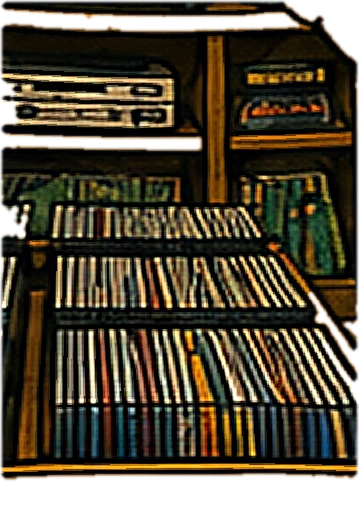
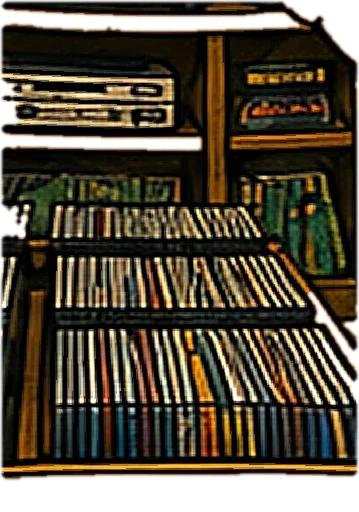
Finish ambient toys: visible wiggles + wonder confirm toast
Bake sprites for crate/poster/fire/wonder, wire toy planes on every ambient
hit, and show a short rabbit-hole toast before wonder opens outbound links.

diff --git a/app/components/AmbientHits.tsx b/app/components/AmbientHits.tsx
@@ -1,6 +1,6 @@
 'use client';
 
-import { BANDCAMP_URL, INSTAGRAM_URL } from '@/lib/brand';
+import { BANDCAMP_URL, BRAND_NAME, INSTAGRAM_URL } from '@/lib/brand';
 import { useEffect, useLayoutEffect, useRef, useState } from 'react';
 import { type ThreeEvent } from '@react-three/fiber';
 import { useTexture } from '@react-three/drei';
@@ -12,7 +12,7 @@ import { playSfx } from '@/lib/audio';
 import { useSceneEnv, type Controls } from './sceneContext';
 
 /** Visible click reaction — alpha-cut billboard of the painted object
- * (baked by scripts/build-v9-pano.py as /hotspots/toy_<id>.webp). */
+ * (baked by scripts/build-v12-pano.py as /hotspots/toy_<id>.webp). */
 type ToyPlane = {
   u: number;
   v: number;
@@ -31,29 +31,39 @@ type AmbientHit = {
   toy?: ToyPlane;
   /**
    * balmingtiger globe class — click opens a random wonder link
-   * instead of (or after) playing SFX.
+   * after a short confirm toast (not a silent eject).
    */
   wonder?: boolean;
 };
 
+type WonderLink = { href: string; label: string };
+
 /** Outbound “globe” destinations — Bandcamp / IG / maps rabbit holes. */
-const WONDER_LINKS = [
-  BANDCAMP_URL,
-  INSTAGRAM_URL,
-  'https://ltdrifta.bandcamp.com',
-  'https://inletknight.bandcamp.com',
-  'https://drifta.bandcamp.com',
-  'https://www.google.com/maps/@49.2827,-123.1207,3a,75y,90t/data=!3m1!1e3',
-  'https://www.google.com/maps/@45.5231,-122.6765,3a,75y,120t/data=!3m1!1e3',
+const WONDER_LINKS: WonderLink[] = [
+  { href: BANDCAMP_URL, label: `${BRAND_NAME} on Bandcamp` },
+  { href: INSTAGRAM_URL, label: `${BRAND_NAME} on Instagram` },
+  { href: 'https://ltdrifta.bandcamp.com', label: 'LT Drifta on Bandcamp' },
+  { href: 'https://inletknight.bandcamp.com', label: 'Inlet Knight on Bandcamp' },
+  { href: 'https://drifta.bandcamp.com', label: 'Drifta on Bandcamp' },
+  {
+    href: 'https://www.google.com/maps/@49.2827,-123.1207,3a,75y,90t/data=!3m1!1e3',
+    label: 'Street view — Vancouver',
+  },
+  {
+    href: 'https://www.google.com/maps/@45.5231,-122.6765,3a,75y,120t/data=!3m1!1e3',
+    label: 'Street view — Portland',
+  },
 ];
+
+export const WONDER_EVENT = 'stereo-mart-wonder';
 
 /**
  * Non-nav diegetic toys — balmingtiger cushion / owl / fire / globe class.
- * Invisible click meshes: unique SFX, plus one wonder object that opens
- * a random outbound link (globe parity).
+ * Invisible click meshes + visible sprite wiggles; wonder opens outbound
+ * after a confirm toast.
  */
 const HITS: AmbientHit[] = [
-  // Headphones on the back-wall LISTEN tower (v11)
+  // Headphones on the back-wall LISTEN tower
   {
     id: 'stool',
     u: 0.492,
@@ -64,9 +74,25 @@ const HITS: AmbientHit[] = [
     toy: { u: 0.5, v: 0.428, w: 12, h: 14 },
   },
   // Wall bin run on the CRT side
-  { id: 'crate', u: 0.655, v: 0.488, w: 4.5, h: 3.2, sfx: 'crate' },
+  {
+    id: 'crate',
+    u: 0.655,
+    v: 0.488,
+    w: 4.5,
+    h: 3.2,
+    sfx: 'crate',
+    toy: { u: 0.655, v: 0.488, w: 18, h: 14 },
+  },
   // Face-out record row on the CRT-side wall shelf
-  { id: 'poster', u: 0.656, v: 0.317, w: 3.5, h: 3.5, sfx: 'poster' },
+  {
+    id: 'poster',
+    u: 0.656,
+    v: 0.317,
+    w: 3.5,
+    h: 3.5,
+    sfx: 'poster',
+    toy: { u: 0.656, v: 0.317, w: 16, h: 16 },
+  },
   // Doormat by the entry door — dust-off wiggle on click
   {
     id: 'cushion',
@@ -88,7 +114,15 @@ const HITS: AmbientHit[] = [
     toy: { u: 0.4271, v: 0.4727, w: 20, h: 28.5 },
   },
   // Moss rug pool on the open floor
-  { id: 'fire', u: 0.609, v: 0.703, w: 2.8, h: 2.6, sfx: 'fire' },
+  {
+    id: 'fire',
+    u: 0.609,
+    v: 0.703,
+    w: 2.8,
+    h: 2.6,
+    sfx: 'fire',
+    toy: { u: 0.609, v: 0.703, w: 18, h: 12 },
+  },
   // Globe / wonder — the door window looking onto the street
   {
     id: 'wonder',
@@ -98,6 +132,7 @@ const HITS: AmbientHit[] = [
     h: 2.4,
     sfx: 'wonder',
     wonder: true,
+    toy: { u: 0.0885, v: 0.41, w: 14, h: 18 },
   },
 ];
 
@@ -127,7 +162,13 @@ function ToySprite({
     const m = mesh.current;
     const material = mat.current;
     if (!pulse || !m || !material) return;
-    if (env.reduceMotion) return;
+    if (env.reduceMotion) {
+      material.opacity = 0.85;
+      const id = window.setTimeout(() => {
+        material.opacity = 0;
+      }, 220);
+      return () => window.clearTimeout(id);
+    }
 
     gsap.killTweensOf([m.rotation, m.scale, material]);
     const baseZ = m.rotation.z;
@@ -195,10 +236,12 @@ function AmbientMesh({
     playSfx(hit.sfx);
     if (hit.toy) setPulse((p) => p + 1);
     if (hit.wonder) {
-      const href = WONDER_LINKS[Math.floor(Math.random() * WONDER_LINKS.length)];
-      window.setTimeout(() => {
-        window.open(href, '_blank', 'noopener,noreferrer');
-      }, 280);
+      const pick = WONDER_LINKS[Math.floor(Math.random() * WONDER_LINKS.length)];
+      window.dispatchEvent(
+        new CustomEvent(WONDER_EVENT, {
+          detail: pick,
+        }),
+      );
     }
   };
 

diff --git a/app/components/WonderToast.tsx b/app/components/WonderToast.tsx
@@ -1,0 +1,58 @@
+'use client';
+
+import { useEffect, useRef, useState } from 'react';
+import { WONDER_EVENT } from './AmbientHits';
+
+type WonderDetail = { href: string; label: string };
+
+const OPEN_DELAY_MS = 1100;
+const FADE_MS = 280;
+
+/**
+ * balmingtiger-style wonder confirm — brief toast before a rabbit-hole tab opens.
+ * Listens for `stereo-mart-wonder` from AmbientHits (Canvas → DOM bridge).
+ */
+export default function WonderToast({ active }: { active: boolean }) {
+  const [tip, setTip] = useState<WonderDetail | null>(null);
+  const [on, setOn] = useState(false);
+  const openTimer = useRef(0);
+  const fadeTimer = useRef(0);
+
+  useEffect(() => {
+    if (!active) return;
+
+    const onWonder = (e: Event) => {
+      const detail = (e as CustomEvent<WonderDetail>).detail;
+      if (!detail?.href) return;
+      window.clearTimeout(openTimer.current);
+      window.clearTimeout(fadeTimer.current);
+      setTip(detail);
+      setOn(true);
+      openTimer.current = window.setTimeout(() => {
+        window.open(detail.href, '_blank', 'noopener,noreferrer');
+        setOn(false);
+        fadeTimer.current = window.setTimeout(() => setTip(null), FADE_MS);
+      }, OPEN_DELAY_MS);
+    };
+
+    window.addEventListener(WONDER_EVENT, onWonder);
+    return () => {
+      window.removeEventListener(WONDER_EVENT, onWonder);
+      window.clearTimeout(openTimer.current);
+      window.clearTimeout(fadeTimer.current);
+    };
+  }, [active]);
+
+  if (!tip) return null;
+
+  return (
+    <div
+      className={`wonder-toast${on ? ' is-on' : ''}`}
+      role="status"
+      aria-live="polite"
+    >
+      <span className="wonder-toast-kicker">Rabbit hole</span>
+      <span className="wonder-toast-label">{tip.label}</span>
+    </div>
+  );
+}

diff --git a/app/globals.css b/app/globals.css
@@ -2426,6 +2426,59 @@ html.has-custom-cursor * {
   }
 }
 
+/* ---------- wonder toast (ambient rabbit-hole confirm) ---------- */
+.wonder-toast {
+  position: fixed;
+  left: 50%;
+  bottom: max(96px, calc(84px + var(--sat-bottom)));
+  transform: translateX(-50%) translateY(10px);
+  z-index: 34;
+  display: flex;
+  flex-direction: column;
+  align-items: center;
+  gap: 4px;
+  max-width: min(88vw, 340px);
+  padding: 12px 18px;
+  border-radius: 14px;
+  border: 1px solid rgba(255, 255, 255, 0.18);
+  background: rgba(8, 14, 12, 0.72);
+  box-shadow:
+    0 1px 0 rgba(255, 255, 255, 0.1) inset,
+    0 12px 32px rgba(0, 0, 0, 0.4);
+  backdrop-filter: blur(16px) saturate(140%);
+  -webkit-backdrop-filter: blur(16px) saturate(140%);
+  color: #f8f0e4;
+  font-family: var(--font-body), system-ui, sans-serif;
+  text-align: center;
+  pointer-events: none;
+  opacity: 0;
+  transition:
+    opacity 0.28s var(--motion-ease-out),
+    transform 0.28s var(--motion-ease-out);
+}
+.wonder-toast.is-on {
+  opacity: 1;
+  transform: translateX(-50%) translateY(0);
+}
+.wonder-toast-kicker {
+  font-size: 10px;
+  font-weight: 700;
+  letter-spacing: 0.18em;
+  text-transform: uppercase;
+  color: rgba(201, 168, 90, 0.95);
+}
+.wonder-toast-label {
+  font-size: 13px;
+  font-weight: 600;
+  letter-spacing: 0.02em;
+  line-height: 1.3;
+}
+@media (max-width: 570px) {
+  .wonder-toast {
+    bottom: max(88px, calc(76px + var(--sat-bottom)));
+  }
+}
+
 @media (prefers-reduced-motion: reduce) {
   .gate-grain,
   .gate-mist,

diff --git a/app/components/Experience.tsx b/app/components/Experience.tsx
@@ -12,6 +12,7 @@ import MuteControl from './MuteControl';
 import GyroButton, { createGyro } from './GyroButton';
 import DragHint from './DragHint';
 import CustomCursor from './CustomCursor';
+import WonderToast from './WonderToast';
 import {
   createNavState,
   createNavigationController,
@@ -309,6 +310,7 @@ export default function Experience() {
       <GyroButton visible={canLook} gyroRef={gyroRef} />
       <TopNav visible={canLook} activeId={active} onOpen={open} />
       <DragHint active={canLook} controls={controls} reduceMotion={reduceMotion} />
+      <WonderToast active={canLook} />
 
       <SectionPanel
         activeId={active}

diff --git a/scripts/build-v12-pano.py b/scripts/build-v12-pano.py
@@ -69,6 +69,10 @@ TOY_SPRITES = {
     "stool": (0.500, 0.428, 12.0, 14.0, "flood"),  # headphones on back-wall LISTEN
     "owl": (0.4271, 0.4727, 20.0, 28.5, "flood"),  # plant on its stand
     "cushion": (0.09, 0.617, 26.0, 7.6, "patch"),  # doormat
+    "crate": (0.655, 0.488, 18.0, 14.0, "flood"),  # wall bin run
+    "poster": (0.656, 0.317, 16.0, 16.0, "flood"),  # face-out shelf records
+    "fire": (0.609, 0.703, 18.0, 12.0, "patch"),  # moss rug pool
+    "wonder": (0.0885, 0.41, 14.0, 18.0, "patch"),  # door / street window
 }
 MASK_PLANE_RADIUS = 47.5  # SPHERE_RADIUS - 0.5 (Hotspot.tsx)
 CRT_PLANE_RADIUS = 47.2  # SPHERE_RADIUS - 0.8 (CrtScreen.tsx)
